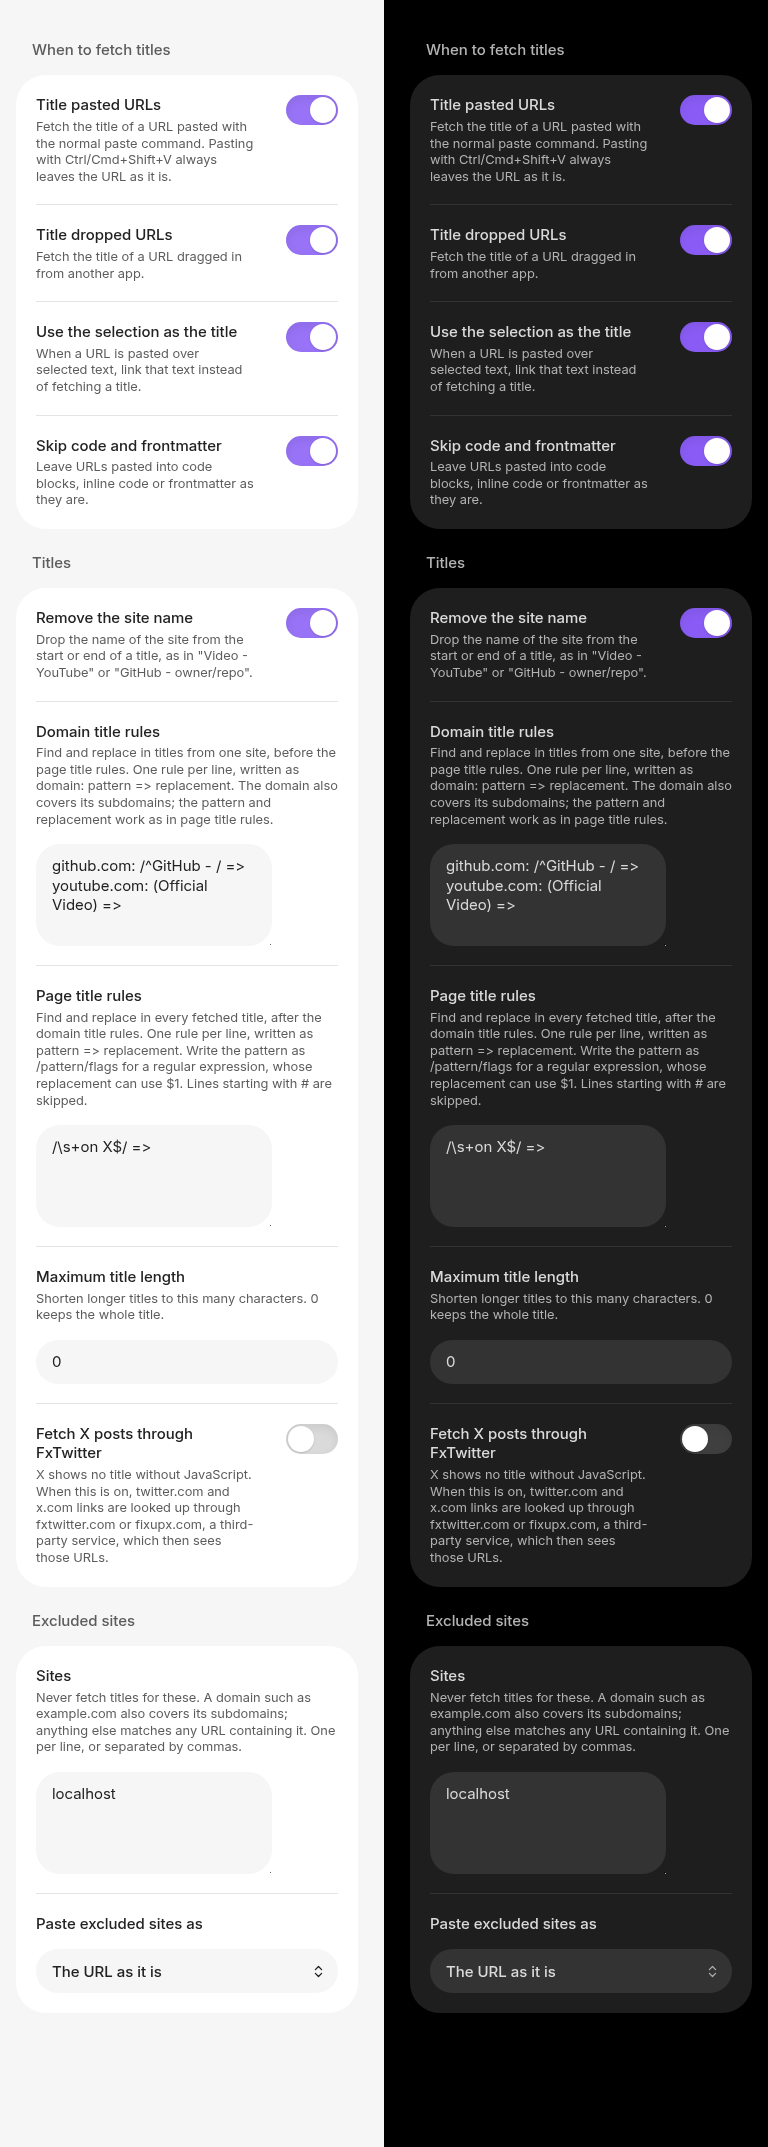
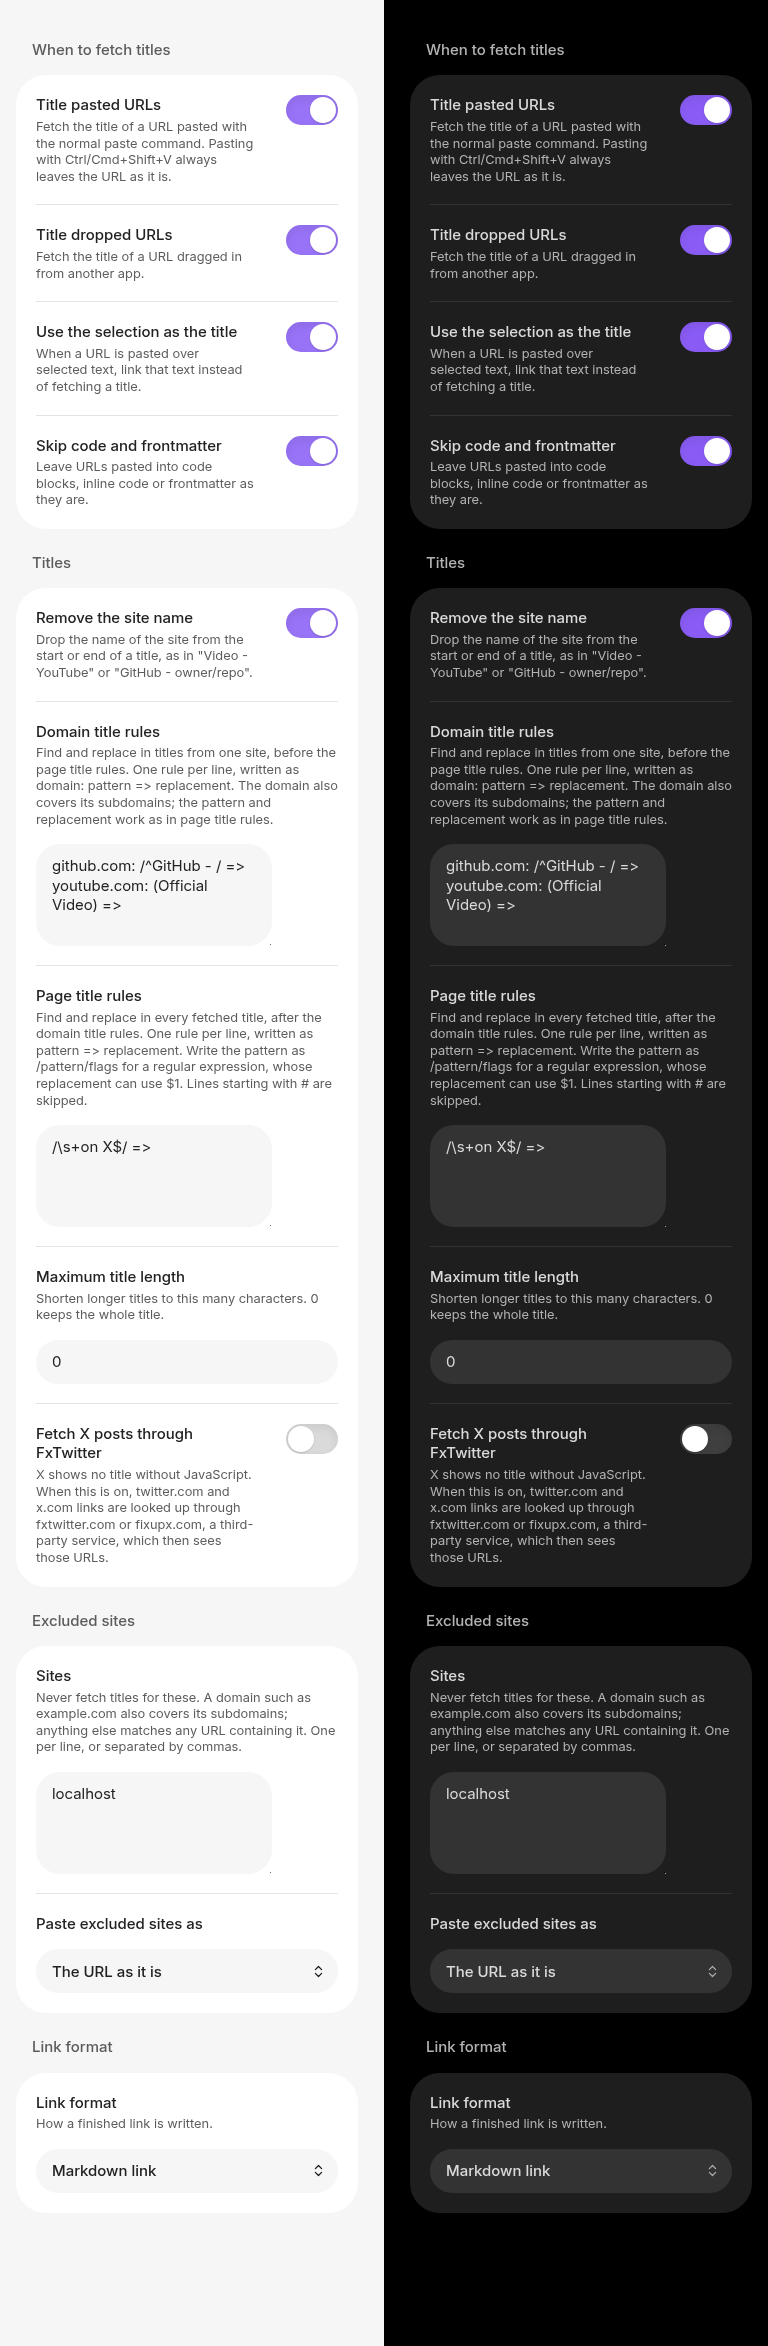
Regenerate the README screenshots with the link format settings
The settings tab gains a Link format group at the end, so the
screenshots are recaptured with npm run screenshots to show it.

diff --git a/README.md b/README.md
@@ -41,7 +41,7 @@ Titles are cleaned up before they go in: line breaks become spaces, and characte
 
 ## Settings
 
-![The Named Links settings tab in full, in light and dark mode: when to fetch titles, the title clean-up and length settings, the FxTwitter option, and excluded sites](screenshots/settings.png)
+![The Named Links settings tab in full, in light and dark mode: when to fetch titles, the title clean-up and length settings, the FxTwitter option, excluded sites, and the link format](screenshots/settings.png)
 
 On a phone the same settings stack into one column:
 
